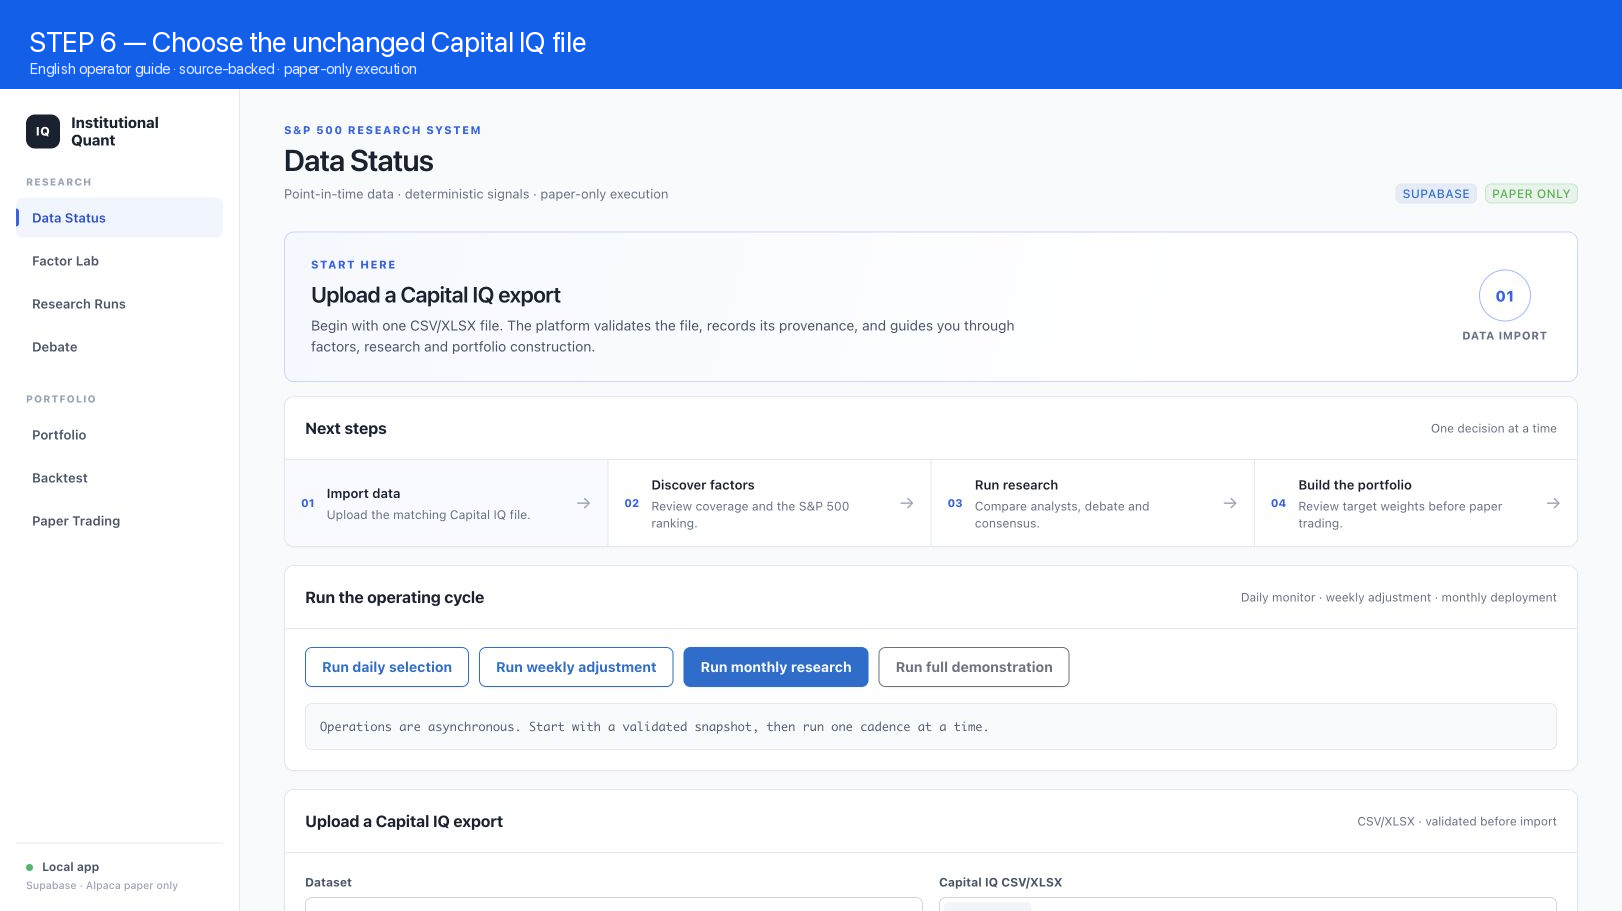
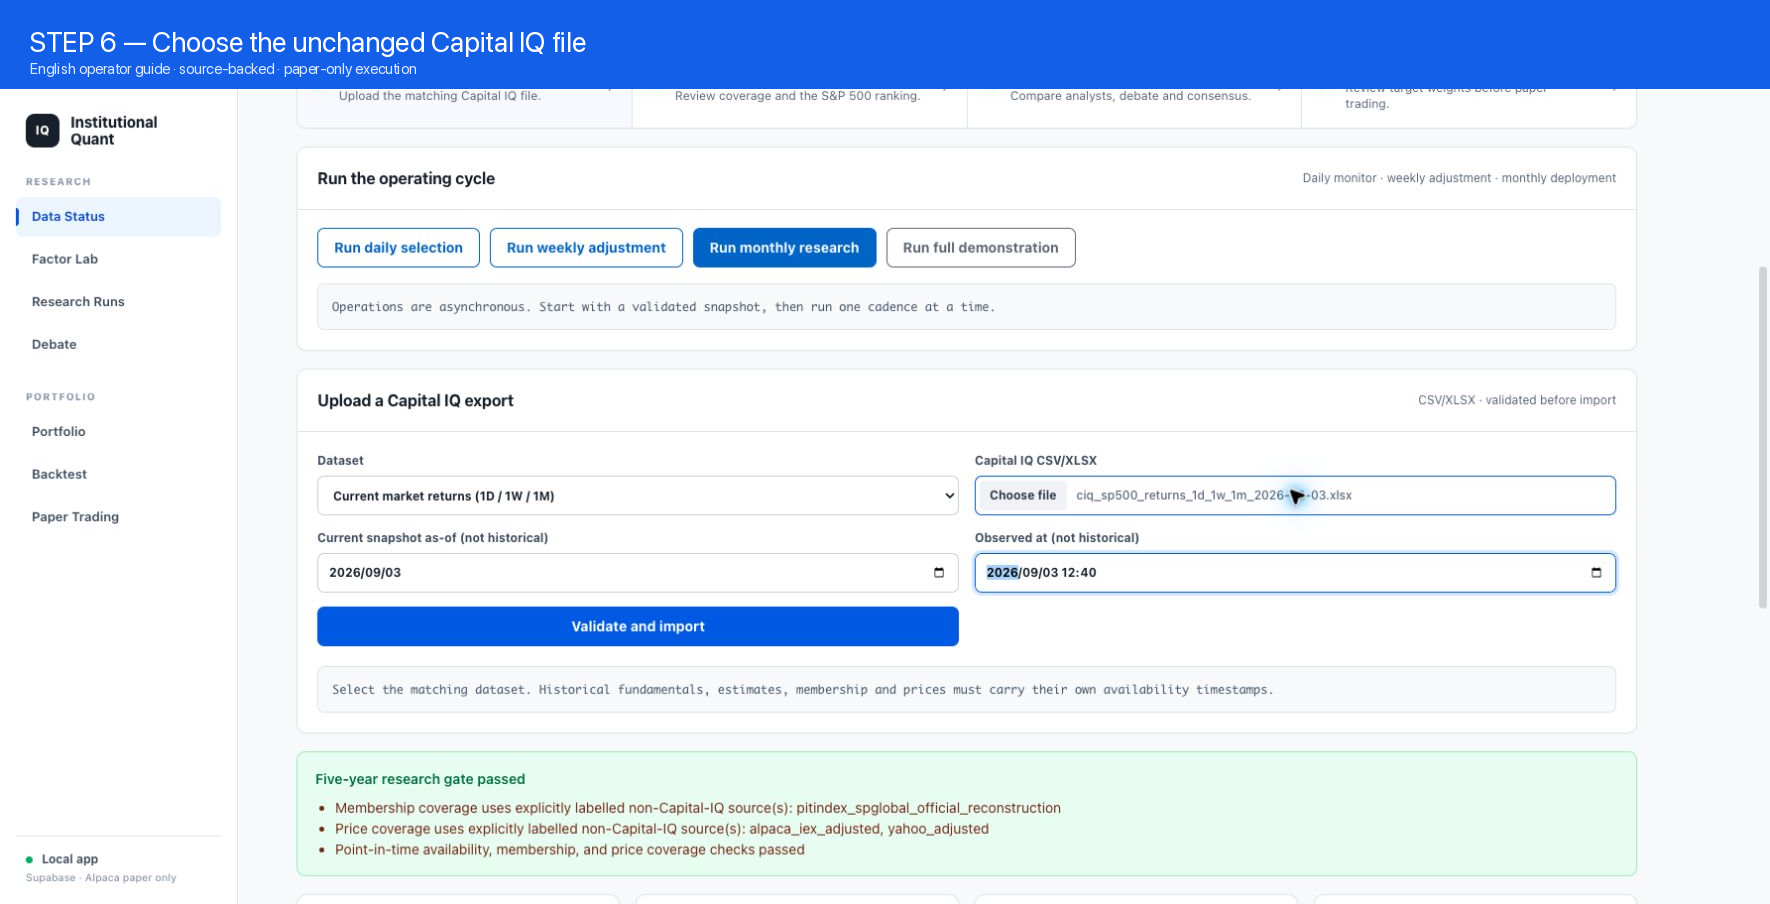
docs: capture successful market return upload

diff --git a/scripts/annotate_demo_screenshots.py b/scripts/annotate_demo_screenshots.py
@@ -25,9 +25,9 @@ steps = [
     ("step-03-price-change-columns.png", "ciq-step1.png", "STEP 3 — Add Price Change 1D / 1W / 1M columns"),
     ("step-04-results-as-values.png", "ciq-step1.png", "STEP 4 — Run Results As Values and export CSV/XLSX"),
     ("step-05-data-status-dataset.png", "01-data-status.png", "STEP 5 — Select Current market returns (1D / 1W / 1M)"),
-    ("step-06-file-upload.png", "01-data-status.png", "STEP 6 — Choose the unchanged Capital IQ file"),
-    ("step-07-timestamps.png", "01-data-status.png", "STEP 7 — Enter availability and observed timestamps"),
-    ("step-08-validation-success.png", "01-data-status.png", "STEP 8 — Validate and import; review provenance"),
+    ("step-06-file-upload.png", "upload-ready.png", "STEP 6 — Choose the unchanged Capital IQ file"),
+    ("step-07-timestamps.png", "upload-ready.png", "STEP 7 — Enter availability and observed timestamps"),
+    ("step-08-validation-success.png", "upload-result.png", "STEP 8 — Validate and import; review provenance"),
     ("step-09-daily-selection.png", "01-data-status.png", "STEP 9 — Run daily selection and risk monitoring"),
     ("step-10-weekly-adjustment.png", "05-portfolio.png", "STEP 10 — Run weekly adjustment (5% turnover cap)"),
     ("step-11-factor-lab.png", "02-factor-lab.png", "STEP 11 — Inspect the monthly factor snapshot"),
